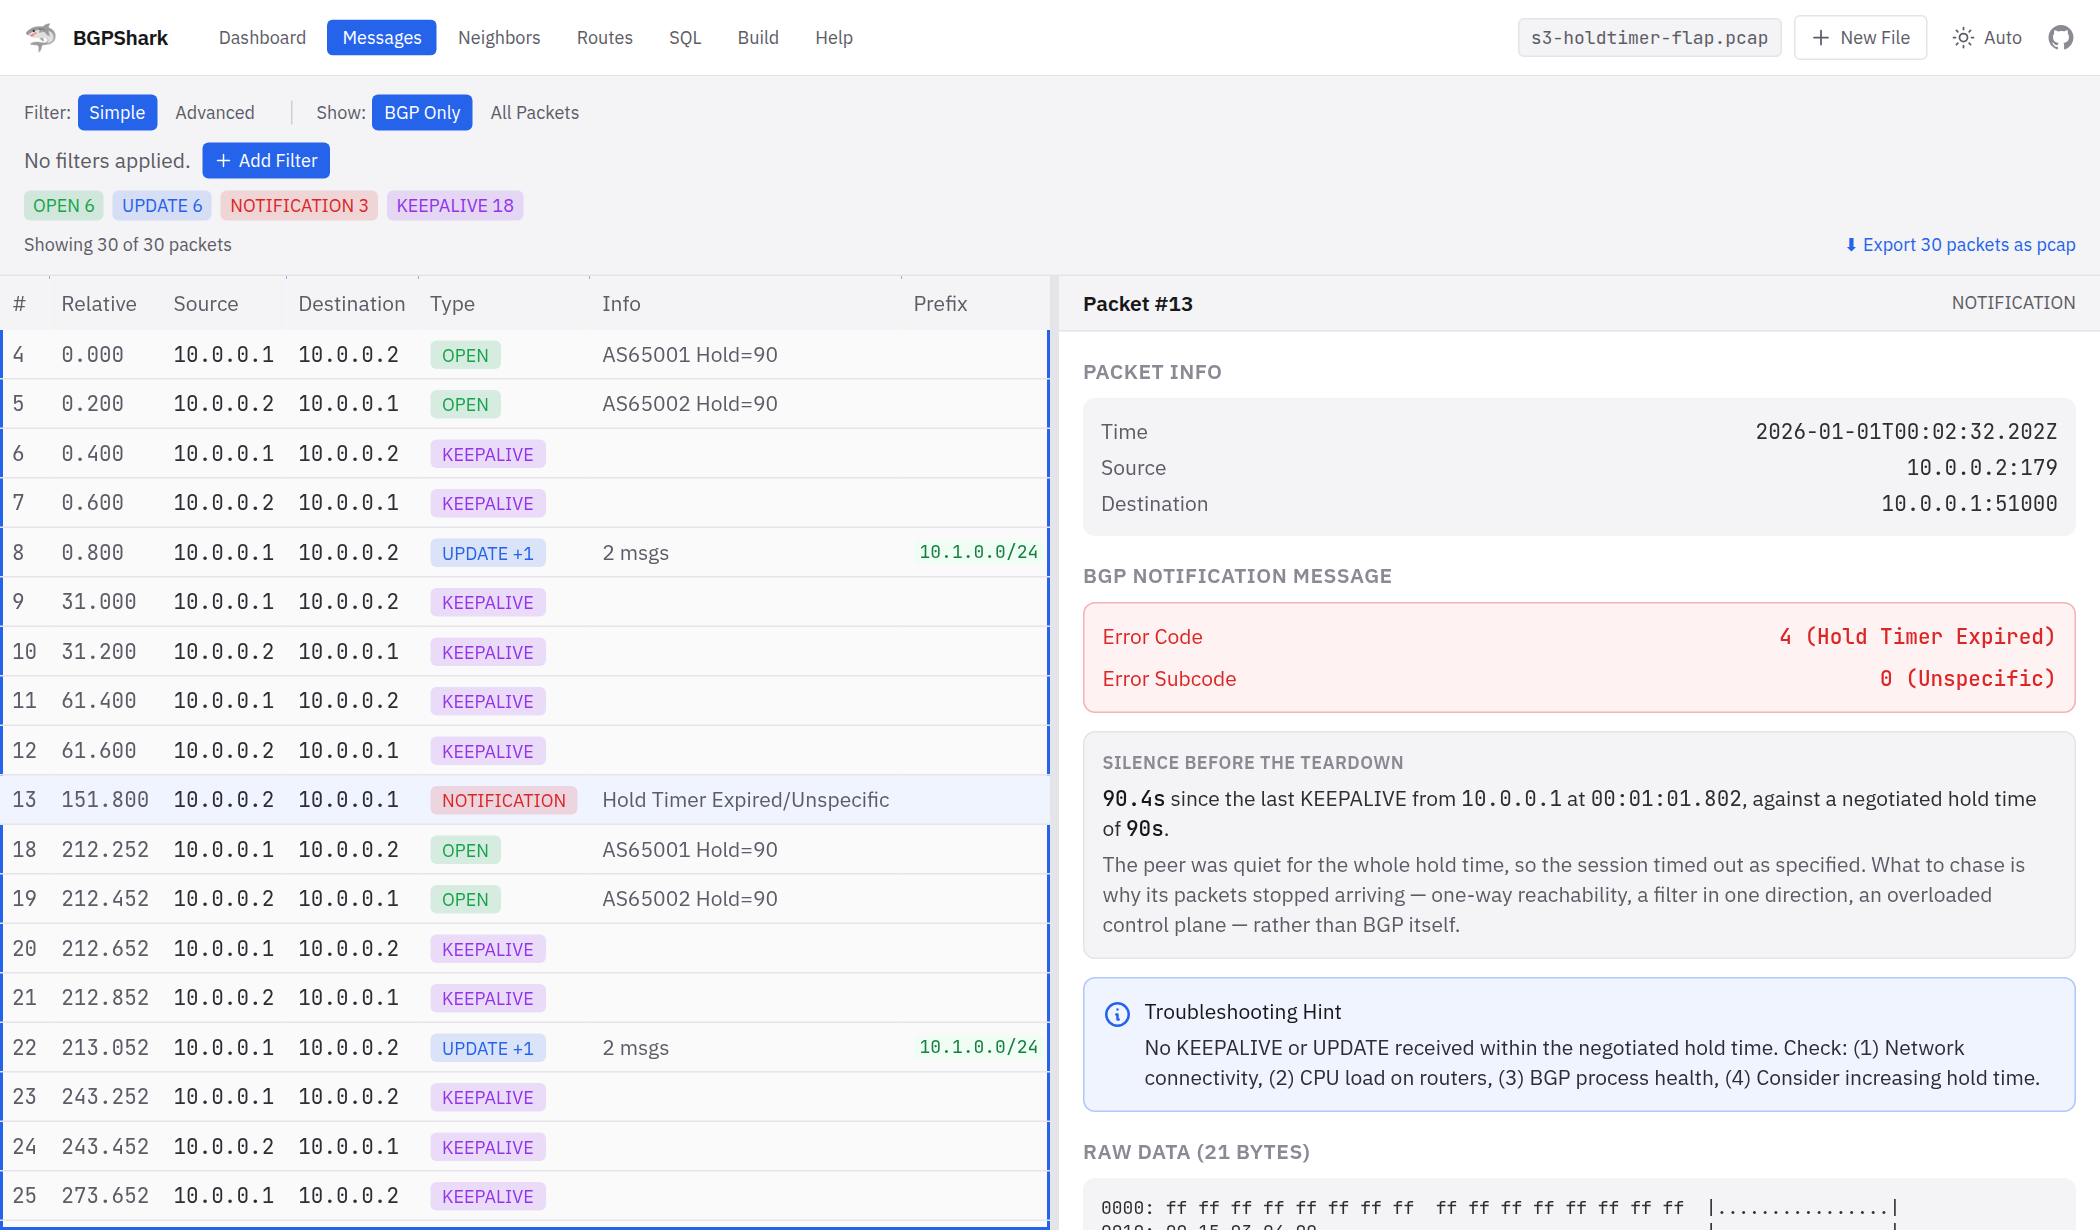
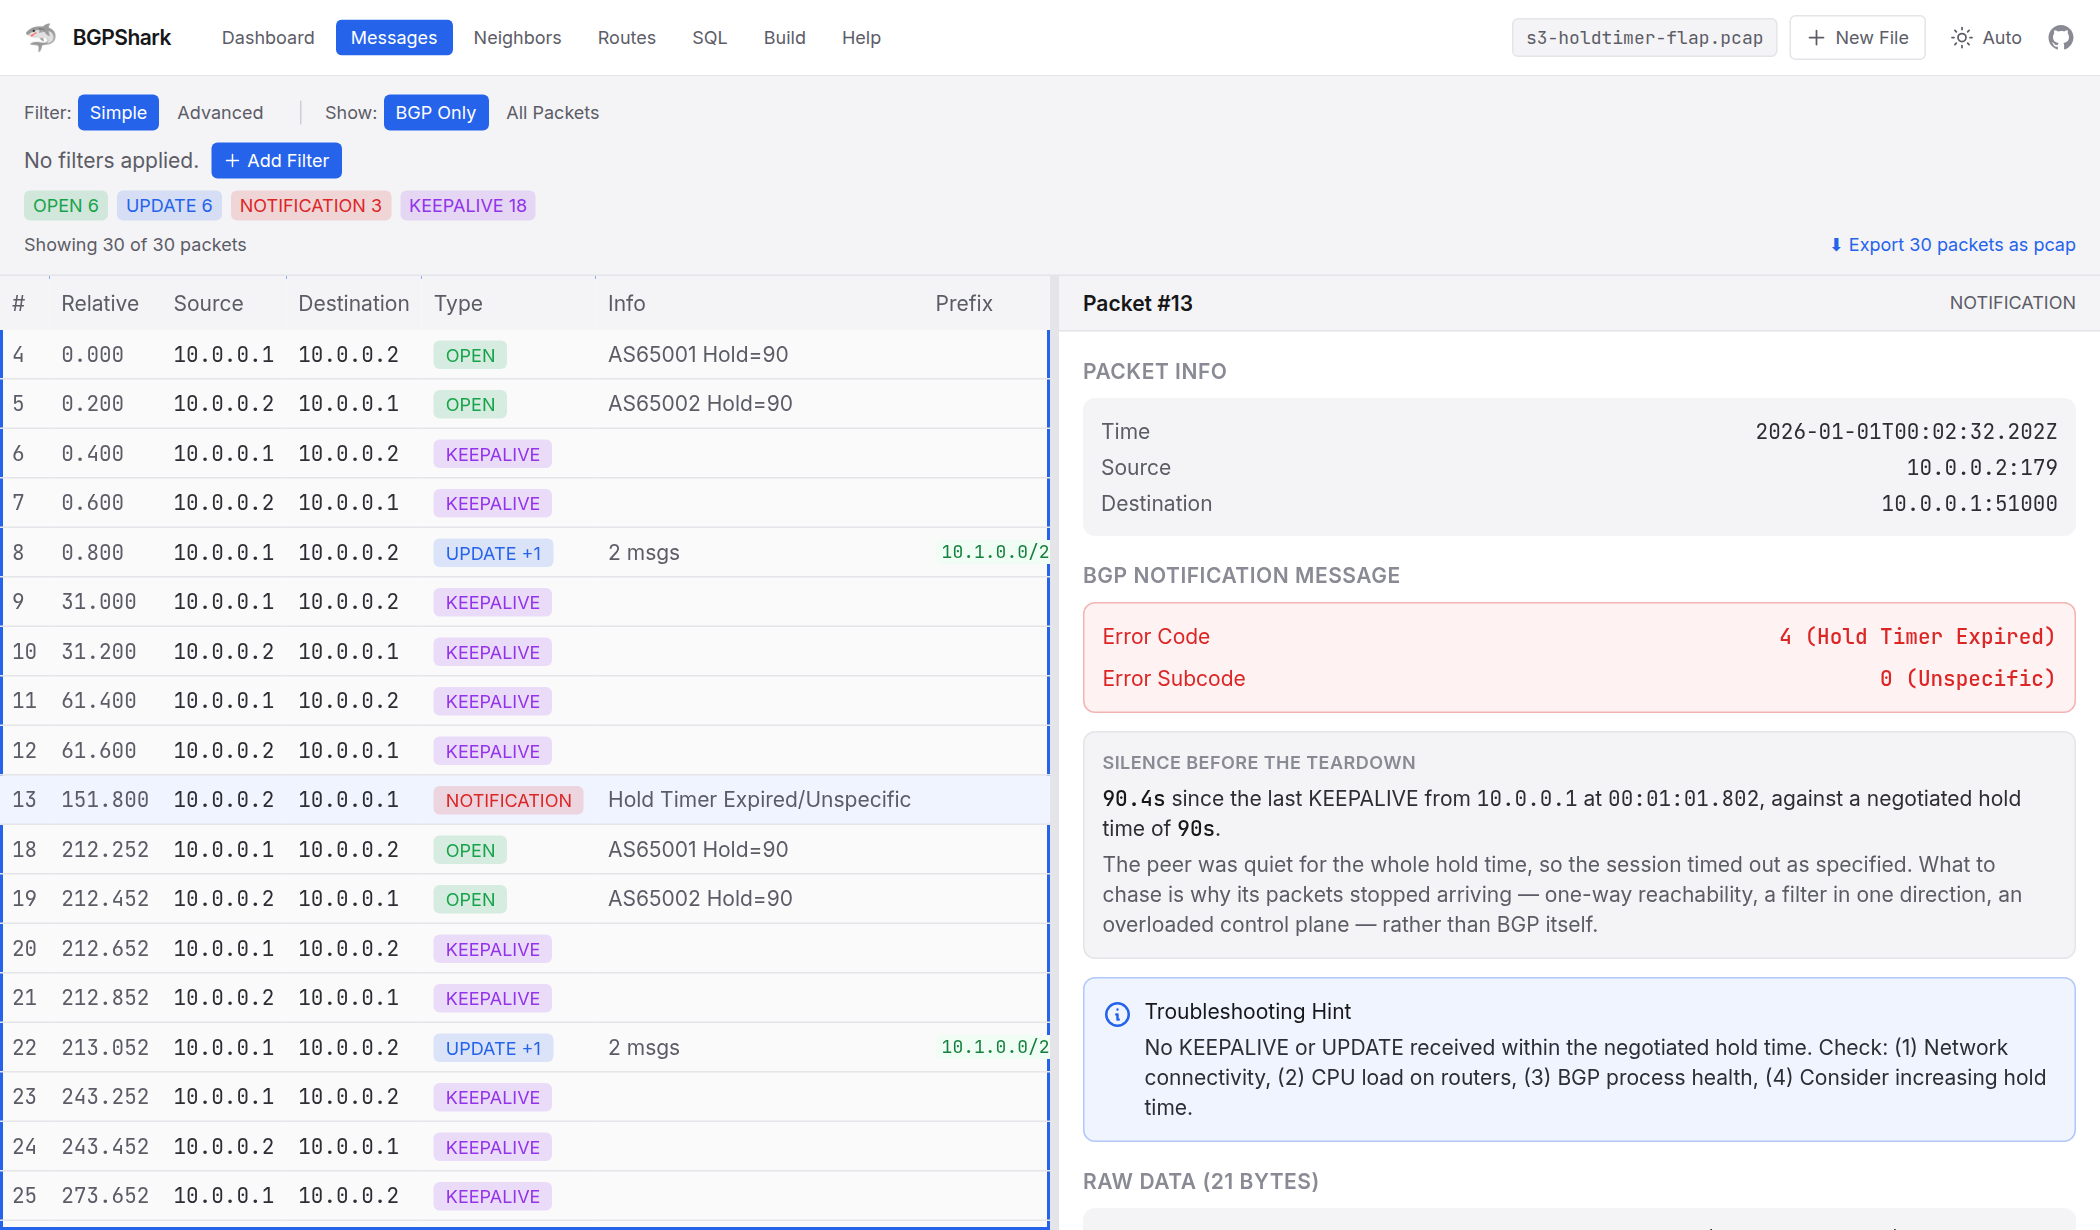
Re-shoot the hold timer panel in the new font
`s3-holdtimer-gap.png` was the merge's one conflict, and neither side was the
answer: main had regenerated every screenshot for the Inter switch, but its
copy of this one still shows the SQL console this branch replaced, while this
branch's copy shows the right panel in IBM Plex. Re-run from the merged tree,
which is the only place both changes exist.

`bun run screenshots` also offered s4-bestpath, which turned out to differ only
in the SQL console's "Execution: 75ms" against "89ms" — a wall clock, and pure
binary churn. Kept main's bytes and left a note at the shot saying so, since
the next person to regenerate will be asked the same question.

diff --git a/testlab/screenshots.ts b/testlab/screenshots.ts
@@ -198,6 +198,11 @@ const SHOTS: Shot[] = [
   },
   {
     // The query as well as its answer: this one is worth copying, not just reading.
+    //
+    // This is also the one shot that re-diffs on every run without anything
+    // having changed: the SQL console prints how long the query took, and that
+    // is a wall clock. If `git status` offers you this file and nothing else,
+    // compare the two before committing — it is usually 75ms against 89ms.
     file: 's4-bestpath',
     scenario: 's4',
     take: async (page) => {
